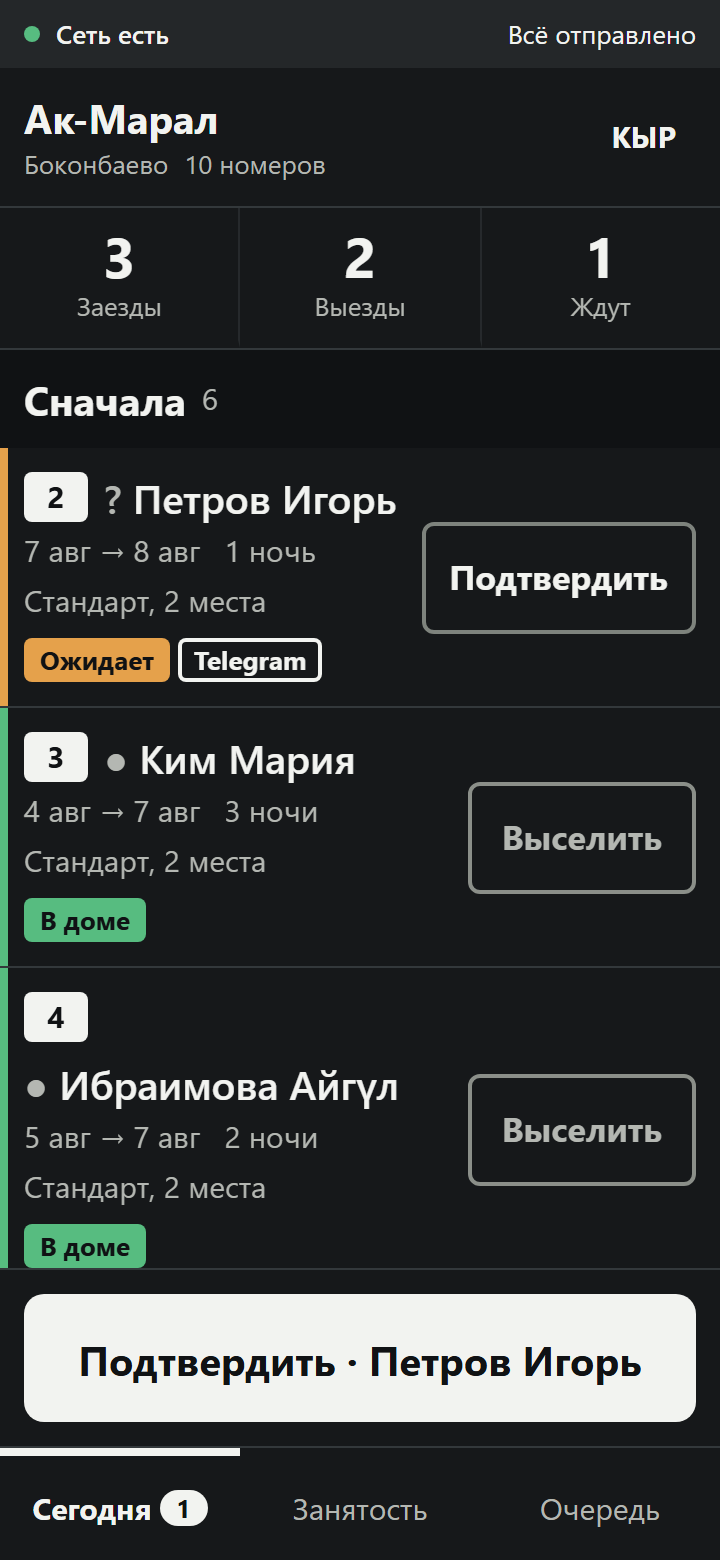
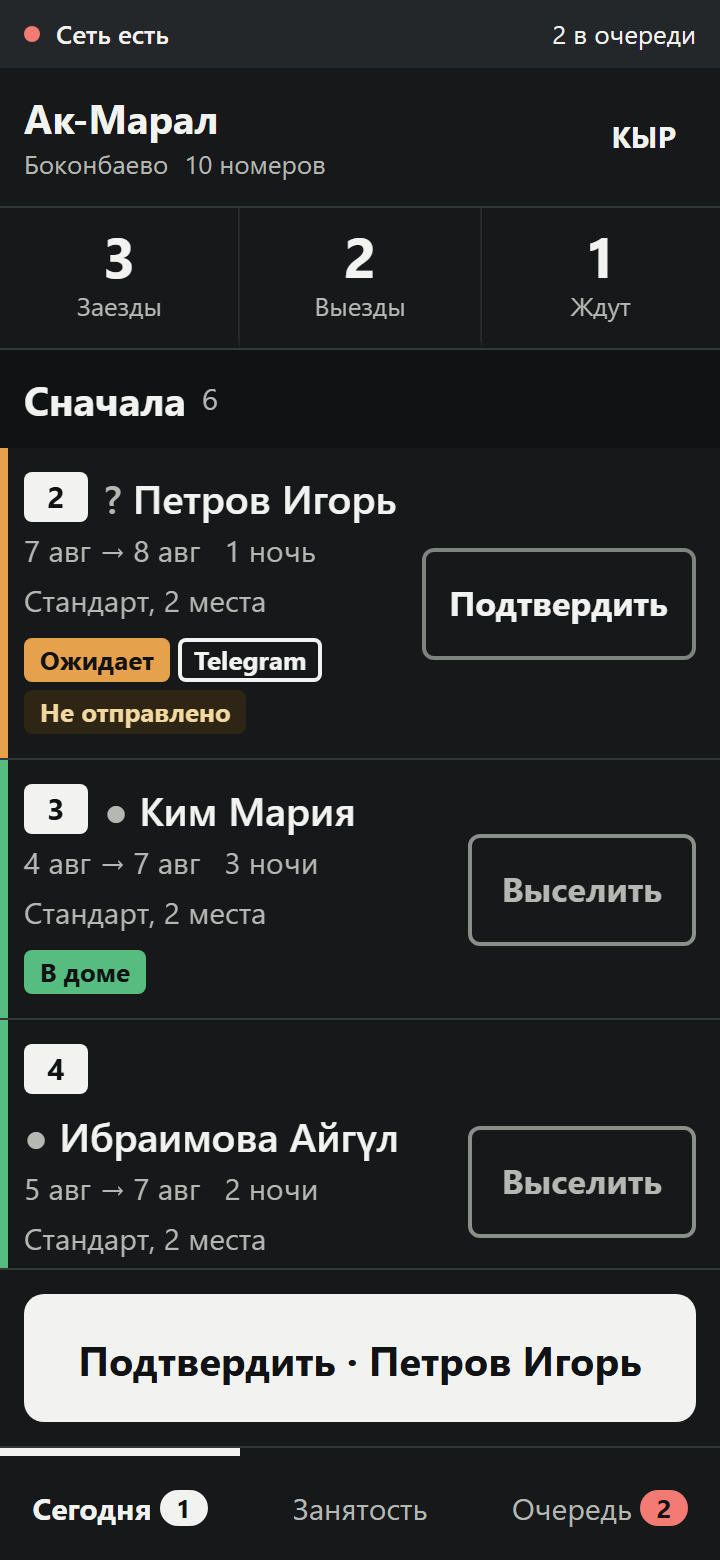
fix(web): офлайн-слой виден во всех четырёх точках присутствия
Плагин синхронизации затирал счётчик демо-очереди нулём из настоящего
(пустого в демо) Dexie, и полоса связи писала «Всё отправлено» поверх
двух неотправленных мутаций. Гард на демо-режим в sync.client.ts и
useSyncState.refresh(); отслеживание online при этом сохранено.

Пометки sync на бронях согласованы с демо-очередью в одном месте
(fixtures/demo.ts): офлайн — это слой из четырёх точек присутствия,
а не уведомление, и четвёртая из них — пометка на КОНКРЕТНОЙ броне —
раньше в демо не показывалась.

Теперь видно всё сразу: полоса связи с числом, красный счётчик на
вкладке «Очередь», плашка «Не отправлено» в строке брони и сам экран.

diff --git a/apps/web/fixtures/demo.ts b/apps/web/fixtures/demo.ts
@@ -128,6 +128,17 @@ function asServerDate(day: string): string {
 	return `${day}T00:00:00.000Z`
 }
 
+/**
+ * Пометки на бронях согласованы с demoQueue ниже: офлайн-слой обязан быть
+ * виден в четырёх местах сразу — полоса связи, счётчик на вкладке, пометка
+ * на КОНКРЕТНОЙ броне и экран очереди. Без этой связки четвёртая точка
+ * присутствия в демо не показывалась.
+ */
+const DEMO_SYNC: Record<string, Booking["sync"]> = {
+	"booking-1": "pending", // «Подтвердить · Петров Игорь» ждёт отправки
+	"booking-4": "rejected", // «Заселить · Chen Wei» отклонён сервером
+}
+
 export function demoBookings(today: string): Booking[] {
 	return SEED.map(([name, roomLabel, fromOffset, toOffset, status, source], i) => {
 		const room = ROOMS.find((r) => r.label === roomLabel)!
@@ -157,7 +168,7 @@ export function demoBookings(today: string): Booking[] {
 			updatedAt: asServerDate(addDays(today, fromOffset - 7)),
 			guest,
 			room,
-			sync: "ok",
+			sync: DEMO_SYNC[`booking-${i}`] ?? "ok",
 		} satisfies Booking
 	})
 }

diff --git a/apps/web/plugins/sync.client.ts b/apps/web/plugins/sync.client.ts
@@ -11,11 +11,16 @@ export default defineNuxtPlugin(() => {
 	const { flushQueue } = useApi()
 	const { syncPending } = useSession()
 	const { online, refresh } = useSyncState()
+	// В демо-режиме настоящей очереди нет, и Dexie пуст. Без этого гарда
+	// плагин затирал счётчик демо-очереди нулём, и полоса связи писала
+	// «Всё отправлено» поверх двух неотправленных мутаций.
+	const demo = useRuntimeConfig().public.demo
 
 	async function init() {
+		online.value = navigator.onLine
+		if (demo) return
 		const { db } = await import("~/offline/db")
 		syncPending.value = await db.pendingMutations.count()
-		online.value = navigator.onLine
 		await refresh()
 		if (navigator.onLine) {
 			await flushQueue()
@@ -25,6 +30,7 @@ export default defineNuxtPlugin(() => {
 
 	window.addEventListener("online", () => {
 		online.value = true
+		if (demo) return
 		flushQueue().then(refresh)
 	})
 	// Раньше слушателя offline не было вовсе: полоса связи не могла узнать,

diff --git a/apps/web/composables/useSyncState.ts b/apps/web/composables/useSyncState.ts
@@ -15,6 +15,9 @@ export function useSyncState() {
 
 	async function refresh(): Promise<void> {
 		if (!import.meta.client) return
+		// В демо-режиме счётчики ведёт useQueue из фикстур: настоящая
+		// очередь Dexie пуста, и чтение из неё обнулило бы демо.
+		if (useRuntimeConfig().public.demo) return
 		const { db } = await import("~/offline/db")
 		syncPending.value = await db.pendingMutations.count()
 		broken.value = await db.conflicts.count()
